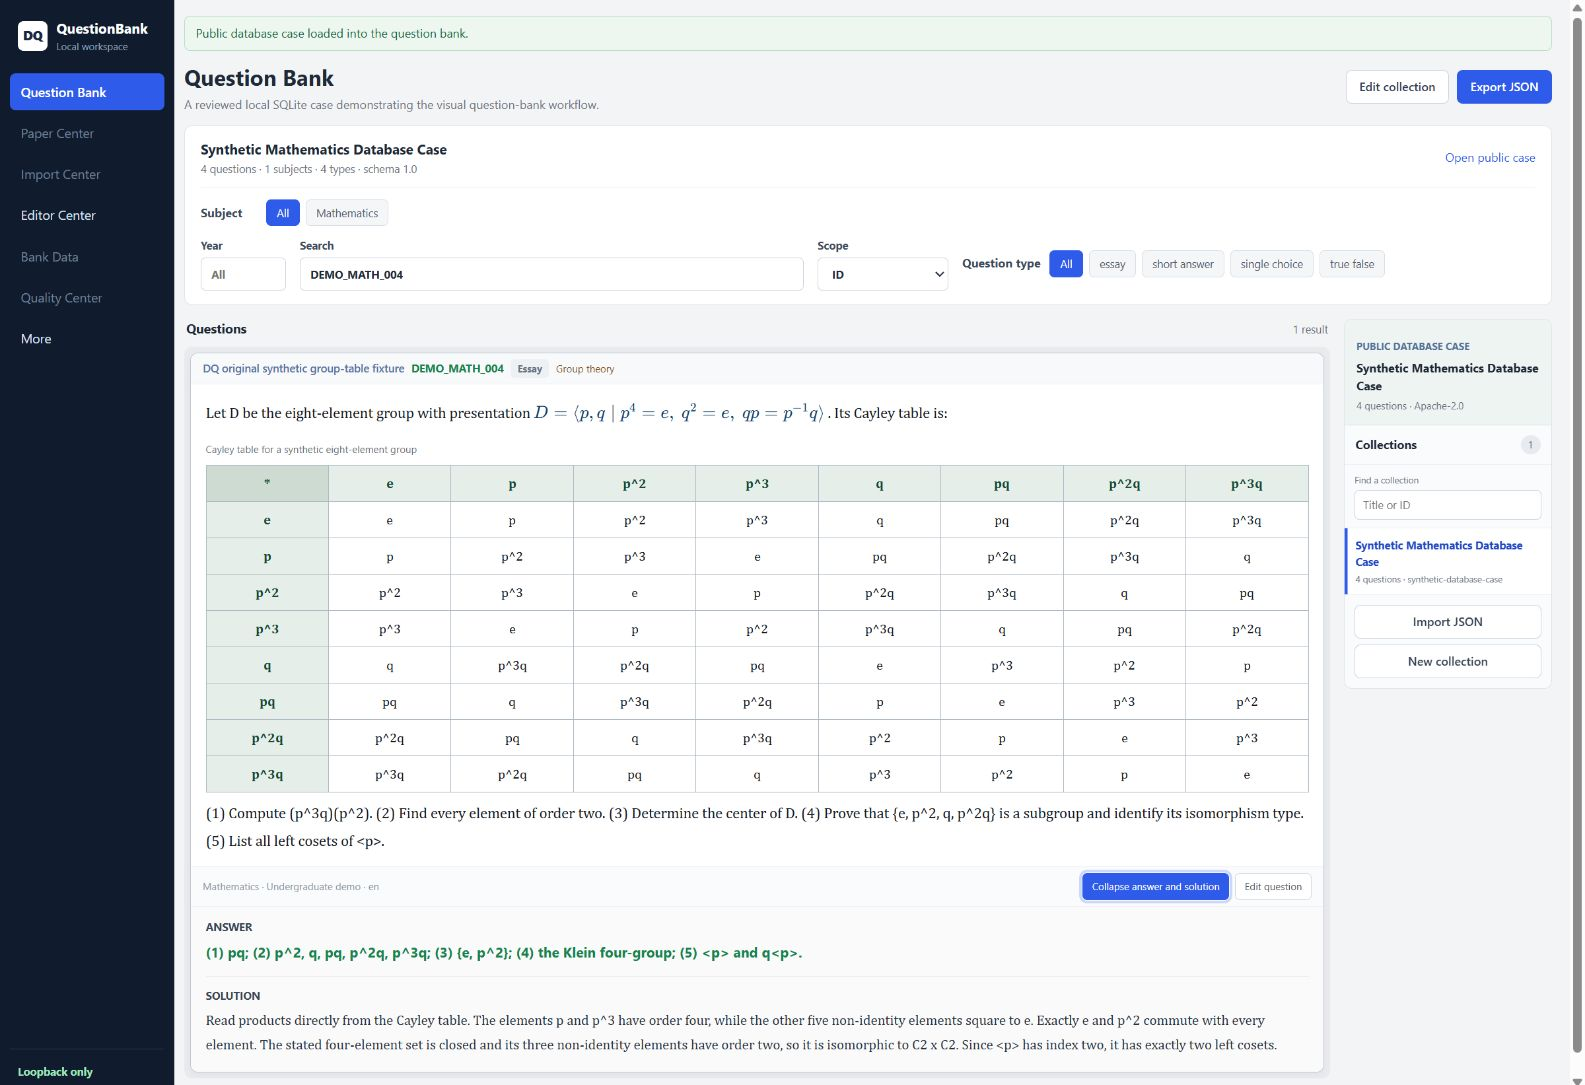
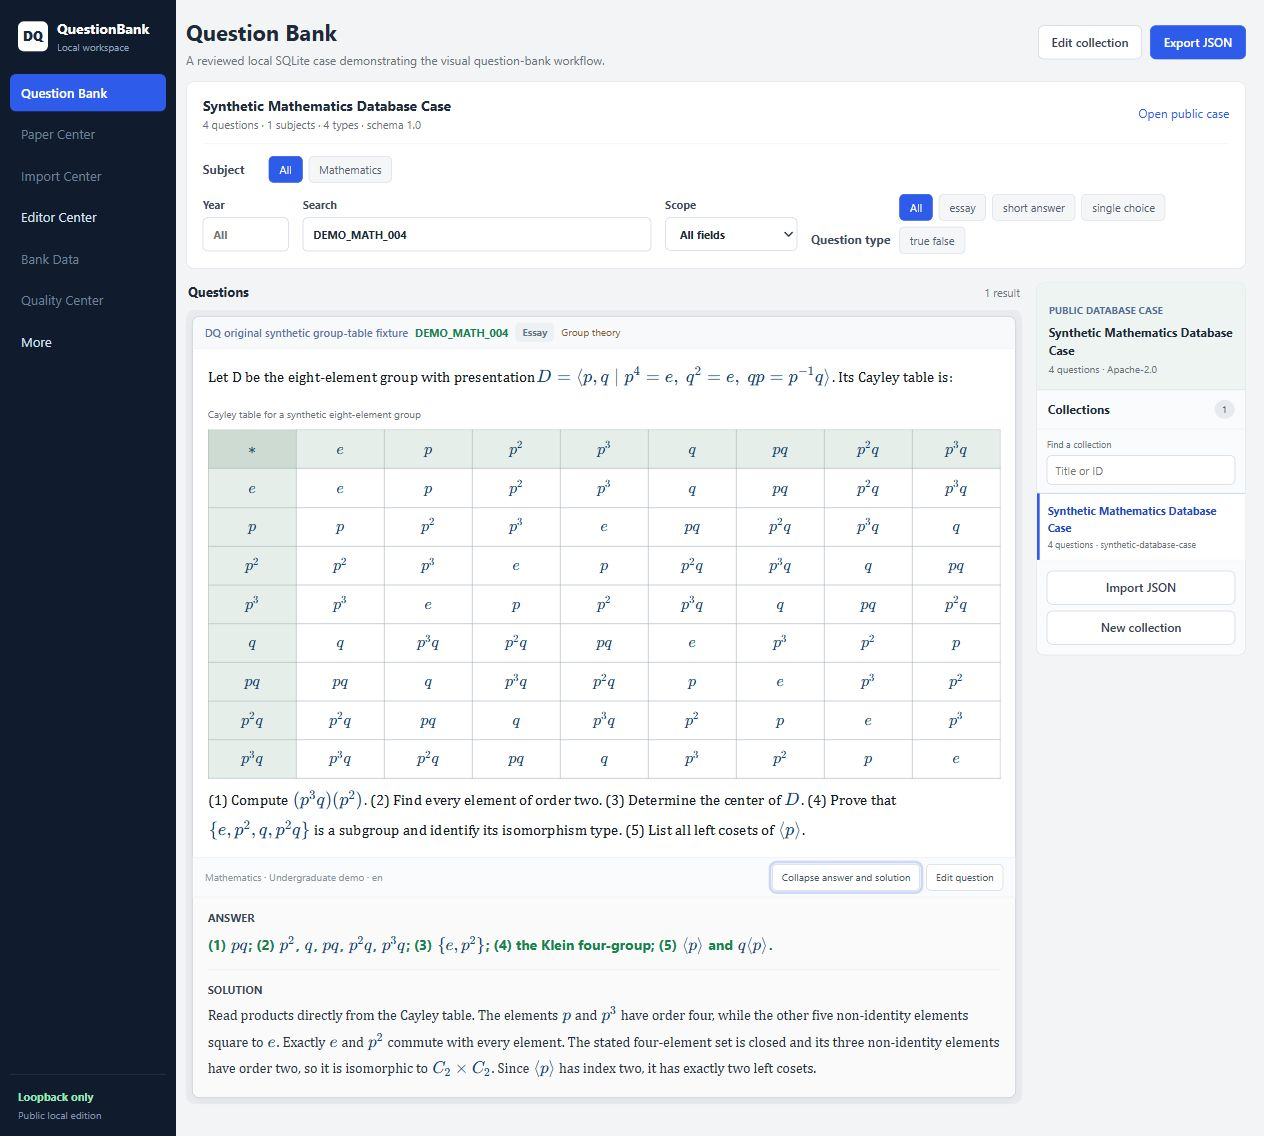
fix: render math across public question content

diff --git a/src/dq_questionbank_local/web/app.js b/src/dq_questionbank_local/web/app.js
@@ -58,6 +58,78 @@ function hasStructuredBlocks(content) {
   return Boolean(content?.blocks?.some((block) => !["text", "line_break"].includes(block.type)));
 }
 
+function isEscaped(text, index) {
+  let slashCount = 0;
+  for (let cursor = index - 1; cursor >= 0 && text[cursor] === "\\"; cursor -= 1) {
+    slashCount += 1;
+  }
+  return slashCount % 2 === 1;
+}
+
+function mathDelimiterAt(text, index) {
+  if (text[index] !== "$" || isEscaped(text, index)) return "";
+  return text.startsWith("$$", index) ? "$$" : "$";
+}
+
+function findClosingDelimiter(text, start, delimiter) {
+  for (let cursor = start; cursor < text.length; cursor += 1) {
+    if (mathDelimiterAt(text, cursor) === delimiter) return cursor;
+  }
+  return -1;
+}
+
+function appendPlainText(container, text) {
+  if (text) container.append(document.createTextNode(text.replaceAll("\\$", "$")));
+}
+
+function renderMathElement(element, latex, displayMode = false, fallback = "") {
+  element.classList.add("content-math");
+  if (displayMode) element.classList.add("display");
+  if (globalThis.katex) {
+    try {
+      globalThis.katex.render(latex, element, {
+        displayMode,
+        output: "htmlAndMathml",
+        strict: "warn",
+        throwOnError: true,
+        trust: false,
+      });
+      return;
+    } catch (error) {
+      element.classList.add("math-fallback");
+      element.title = "Formula could not be rendered.";
+    }
+  }
+  element.textContent = fallback || (displayMode ? `\\[${latex}\\]` : `\\(${latex}\\)`);
+}
+
+function renderTextWithMath(container, value) {
+  const text = String(value ?? "");
+  let plainStart = 0;
+  let cursor = 0;
+  while (cursor < text.length) {
+    const delimiter = mathDelimiterAt(text, cursor);
+    if (!delimiter) {
+      cursor += 1;
+      continue;
+    }
+    const latexStart = cursor + delimiter.length;
+    const closing = findClosingDelimiter(text, latexStart, delimiter);
+    if (closing < 0 || !text.slice(latexStart, closing).trim()) {
+      cursor += delimiter.length;
+      continue;
+    }
+    appendPlainText(container, text.slice(plainStart, cursor));
+    const math = document.createElement("span");
+    const source = text.slice(cursor, closing + delimiter.length);
+    renderMathElement(math, text.slice(latexStart, closing), delimiter === "$$", source);
+    container.append(math);
+    cursor = closing + delimiter.length;
+    plainStart = cursor;
+  }
+  appendPlainText(container, text.slice(plainStart));
+}
+
 function renderTable(container, block) {
   const figure = document.createElement("figure");
   figure.className = "question-table-figure";
@@ -80,7 +152,7 @@ function renderTable(container, block) {
       const cell = document.createElement(isColumnHeader || isRowHeader ? "th" : "td");
       if (isColumnHeader) cell.scope = "col";
       else if (isRowHeader) cell.scope = "row";
-      cell.textContent = String(value);
+      renderTextWithMath(cell, value);
       row.append(cell);
     }
     table.append(row);
@@ -105,19 +177,12 @@ function renderStructuredContent(container, content) {
     } else {
       const element = document.createElement("span");
       element.className = `content-${block.type || "text"}`;
-      if (block.type === "math" && block.metadata?.display) element.classList.add("display");
-      if (block.type === "math" && globalThis.katex) {
-        globalThis.katex.render(block.latex || "", element, {
-          displayMode: Boolean(block.metadata?.display),
-          output: "htmlAndMathml",
-          strict: "warn",
-          throwOnError: false,
-          trust: false,
-        });
+      if (block.type === "math") {
+        renderMathElement(element, block.latex || "", Boolean(block.metadata?.display));
+      } else if (block.type === "text") {
+        renderTextWithMath(element, block.text || "");
       } else {
-        element.textContent = block.type === "math"
-          ? `\\(${block.latex || ""}\\)`
-          : block.text || block.alt_text || "";
+        element.textContent = block.text || block.alt_text || "";
       }
       container.append(element);
     }
@@ -319,7 +384,7 @@ function makeQuestionCard(question, index) {
       title.textContent = "Answer";
       const value = document.createElement("p");
       value.className = "answer-text";
-      value.textContent = answer;
+      renderTextWithMath(value, answer);
       section.append(title, value);
       details.append(section);
     }

diff --git a/src/dq_questionbank_local/web/styles.css b/src/dq_questionbank_local/web/styles.css
@@ -172,8 +172,9 @@ input:focus, select:focus, textarea:focus { border-color: var(--blue); outline: 
 .question-body { padding: 14px 15px 12px; }
 .question-text, .rendered-content { color: #151a20; font-family: Cambria, "Times New Roman", serif; font-size: 15px; line-height: 1.85; min-width: 0; text-align: left; }
 .content-text { white-space: pre-wrap; }
-.content-math { color: #173f70; display: inline-block; margin: 1px 3px; }
+.content-math { color: #173f70; display: inline-block; margin: 1px; }
 .content-math.display { display: block; margin: 9px 0; text-align: center; }
+.content-math.math-fallback { color: var(--danger); font-family: ui-monospace, "SFMono-Regular", Consolas, monospace; font-size: .92em; }
 .content-code { background: #202a33; border-radius: 5px; color: #f4f7f8; overflow-x: auto; padding: 12px; }
 .question-options { display: grid; gap: 6px; margin-top: 12px; }
 .option-item { align-items: start; background: #fafbfc; border: 1px solid #e4e8ed; border-radius: 4px; display: grid; gap: 8px; grid-template-columns: 24px minmax(0, 1fr); padding: 7px 9px; }

diff --git a/tests/test_local_case_database.py b/tests/test_local_case_database.py
@@ -39,13 +39,23 @@ class LocalCaseDatabaseTests(unittest.TestCase):
         table = next(block for block in group_question["stem"]["blocks"] if block["type"] == "table")
         self.assertEqual(9, len(table["rows"]))
         self.assertTrue(all(len(row) == 9 for row in table["rows"]))
-        self.assertEqual(["*", "e", "p"], table["rows"][0][:3])
-        symbols = set(table["rows"][0][1:])
-        self.assertEqual(symbols, {row[0] for row in table["rows"][1:]})
+        self.assertEqual(["$\\ast$", "$e$", "$p$"], table["rows"][0][:3])
+        self.assertTrue(
+            all(
+                cell.startswith("$") and cell.endswith("$")
+                for row in table["rows"]
+                for cell in row
+            )
+        )
+        symbols = {cell[1:-1] for cell in table["rows"][0][1:]}
+        self.assertEqual(symbols, {row[0][1:-1] for row in table["rows"][1:]})
         for row in table["rows"][1:]:
-            self.assertEqual(symbols, set(row[1:]))
+            self.assertEqual(symbols, {cell[1:-1] for cell in row[1:]})
         for column in range(1, 9):
-            self.assertEqual(symbols, {row[column] for row in table["rows"][1:]})
+            self.assertEqual(symbols, {row[column][1:-1] for row in table["rows"][1:]})
+        self.assertIn("$(p^3q)(p^2)$", group_question["stem"]["blocks"][-1]["text"])
+        self.assertIn("$\\langle p\\rangle$", group_question["answer"]["value"])
+        self.assertIn("$C_2 \\times C_2$", group_question["solution"]["blocks"][0]["text"])
         self.assertEqual(before, path.read_bytes())
 
         with closing(sqlite3.connect(f"file:{path.as_posix()}?mode=ro", uri=True)) as connection:

diff --git a/tests/test_local_server.py b/tests/test_local_server.py
@@ -100,6 +100,10 @@ class LocalServerTests(unittest.TestCase):
         self.assertEqual(200, response.status)
         self.assertIn('document.createElement("table")', script)
         self.assertIn("globalThis.katex.render", script)
+        self.assertIn("function renderTextWithMath(container, value)", script)
+        self.assertIn("renderTextWithMath(cell, value)", script)
+        self.assertIn("renderTextWithMath(value, answer)", script)
+        self.assertIn('throwOnError: true', script)
         self.assertIn("function renderQuestionResults()", script)
         self.assertIn("function makeQuestionCard(question, index)", script)
         self.assertIn("function updateEditorSelection()", script)

diff --git a/docs/question-schema.md b/docs/question-schema.md
@@ -33,6 +33,12 @@ Required fields are `schema_version`, `id`, `type`, `language`, and `stem`. Opti
 - `code`
 - `line_break`
 
+Use `math` blocks for canonical LaTeX whenever the field supports structured
+content. The visual workspace also recognizes `$...$` and `$$...$$` inside
+textual display fields, including string-valued answers and table cells. This
+compatibility notation is explicit: the renderer never guesses that bare text
+such as `p^2` is mathematics. Escaped `\$` remains a literal dollar sign.
+
 ### Answer
 
 `kind` describes how to interpret `value`. Built-in validation understands `choice` and `choices`; other answer kinds remain serializable for domain-specific evaluators.

diff --git a/CHANGELOG.md b/CHANGELOG.md
@@ -16,6 +16,13 @@ All notable changes will be documented here. The project follows semantic versio
 - Add a repository social-preview asset based on the real public workspace and
   route new issues through explicit workstream and public-data questions.
 
+### Fixed
+
+- Render explicitly delimited LaTeX safely across question text, table cells,
+  answers, and solutions, with readable fallback when a formula is invalid.
+- Mark every mathematical expression in the bundled group-theory case so the
+  public screenshot and workspace no longer expose raw `p^2`-style source.
+
 ## [0.3.0] - 2026-08-17
 
 ### Added

diff --git a/docs/database-case.md b/docs/database-case.md
@@ -75,4 +75,6 @@ database. `scripts/build_case_database.py` creates
 their canonical meaning and verify that reading the database does not modify it.
 The bundled case includes an original group-theory question with a structured
 9-by-9 Cayley table to exercise rich database content and responsive rendering.
-All four bundled questions are presented in English.
+Its stem, table cells, answer, and solution use explicit LaTeX delimiters so the
+offline KaTeX renderer covers the complete question instead of guessing from
+bare symbols. All four bundled questions are presented in English.
